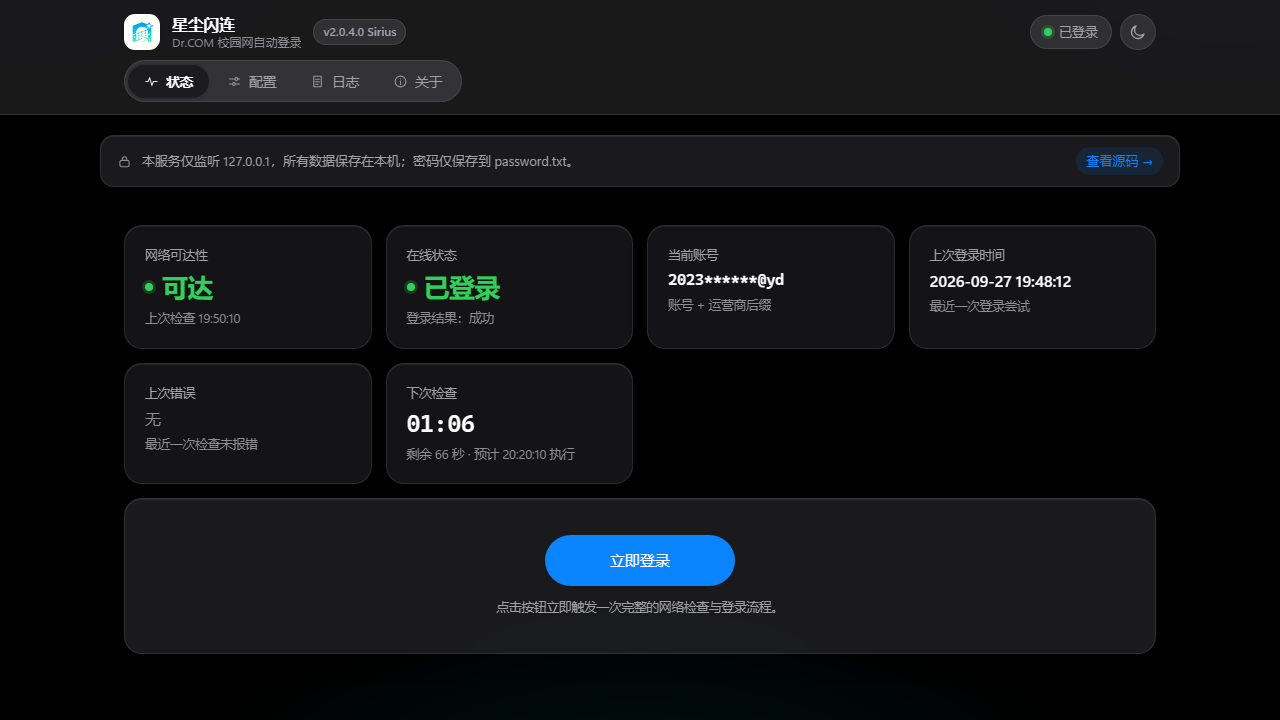
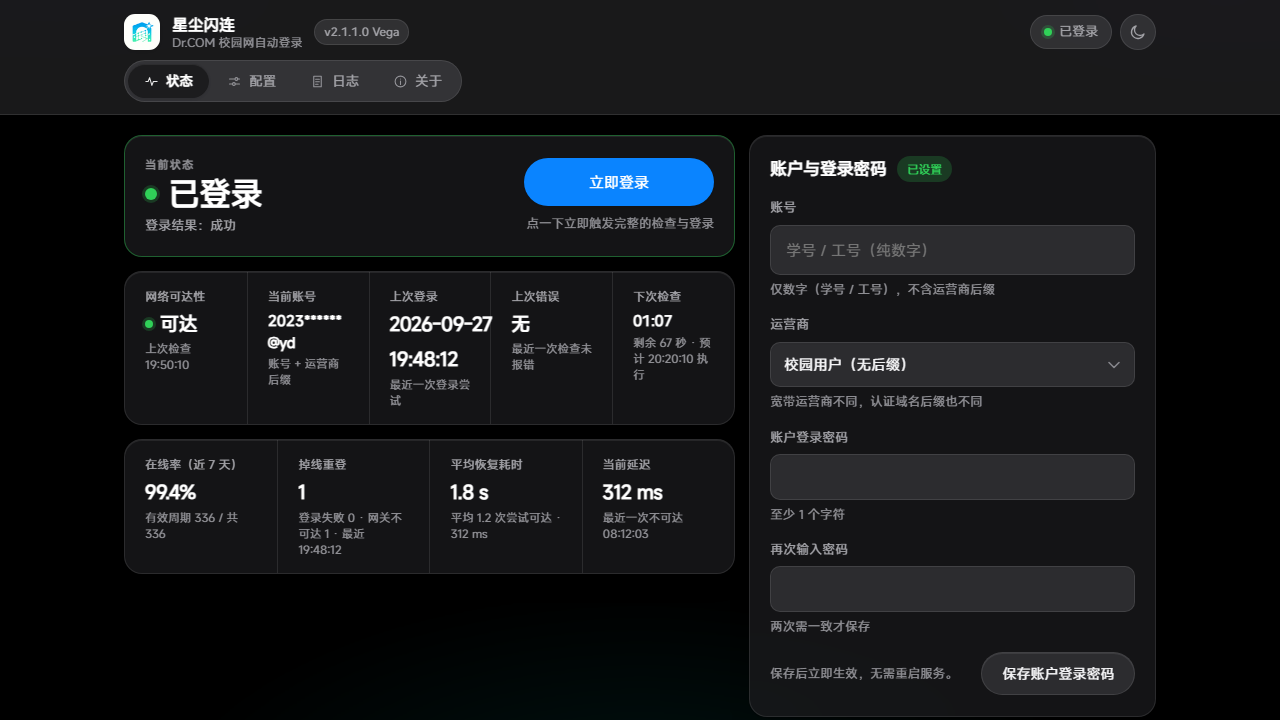
docs(v2.1.2.0): 重拍 README 亮/暗两张截图（新 UI）；截图规范改 worktree 感知；统计条日期不再折三行
1) README 的 docs/screenshot-webui{,-dark}.png 换成新 UI 的实拍：假数据渲染、账号打码成
   2023******@yd、1280x720，符合 AGENTS.md §6 的截图规范（图里没有任何真机账号 / 密码 /
   私有网关地址，版本徽章为当前 version.py 的 2.1.1.0）。

2) 截图工具 _ui_redesign/preview.py（仓库外，本地开发工具）修三处，改动与用法同步进
   AGENTS.md §6：
   - 新增第二个参数「要预览的检出目录」。本仓库是多 worktree 开发（主检出 + 各版本线），
     工具原先写死主检出 —— 拍 2.x 的截图会拍到主检出（3.0 线）的页面，这次就是这么踩的。
   - 主题改成按主题名打补丁（?theme=light|dark|baka）：原来那句
     replace("var theme = 'light';") 在 v2.1.2 把默认主题改成 baka 之后**静默失配**，
     截出来还是默认主题（不报错，只能靠肉眼看出来）。
   - 补一份 /api/metrics 假数据：状态页现在常显 4 项诊断指标，不补这份就全是
     「- / 等待统计 / 不可达」，README 首图会像坏了。

3) 顺手修掉重拍时暴露的一处排版：5 格统计条里的「上次登录」把 ISO 时间按 `-` 断成三行
   （2026- / 09-27 / 19:48:12）——现在日期与时间两段各自 nowrap（.nb），最多折两行。

断言 368 项全绿（新增 1 条：日期两段 nowrap）；_smoke_http 27/27。

diff --git a/web_api.py b/web_api.py
@@ -2023,11 +2023,15 @@ a:hover { color: var(--accent-hover); }
 .stat-cell:first-child { border-left: none; }
 .stat-label { font-size: 12px; color: var(--text-2); }
 .stat-value {
-  display: flex; align-items: center; gap: 7px; margin-top: 5px;
+  display: flex; align-items: center; flex-wrap: wrap; gap: 7px; margin-top: 5px;
   font-size: 19px; font-weight: 600; letter-spacing: -0.01em; color: var(--text-strong);
   word-break: break-word;
 }
 .stat-value.mono { font-size: 14.5px; }
+/* 窄格里的日期不再折成三行（四轮）：ISO 串的 `-` 也是断行点，5 格统计条一格只有约 60px
+   内容宽，浏览器会把「2026-09-27 19:48:12」折成 2026- / 09-27 / 19:48:12。
+   值里的「日期」「时间」两段各自包成 .nb（nowrap），配合上面的 flex-wrap 最多折两行。 */
+.nb { white-space: nowrap; }
 .stat-sub { margin-top: 3px; font-size: 11.5px; color: var(--text-3); line-height: 1.4; }
 /* 「上次错误」有值 → 整格浅橙底 + 左侧色条（原来靠一张卡变边框，现在卡没了） */
 .stat-cell.stat-alert { background: var(--warn-fill); box-shadow: inset 3px 0 0 var(--warn); }
@@ -3236,6 +3240,17 @@ details.diag > summary:active .diag-caret { transform: scale(0.9); }
     return '<code class="path">' + html + '</code>';
   }
 
+  /* 窄格子里的日期值：把「日期」「时间」两段各自包成 .nb（nowrap，见 CSS），
+     要折就折成两行，不再从 `-` 中间断开成三行。 */
+  function isoValueHtml(iso) {
+    var parts = fmtIso(iso).split(' ');
+    var html = '';
+    for (var i = 0; i < parts.length; i++) {
+      html += (i ? ' ' : '') + '<span class="nb">' + esc(parts[i]) + '</span>';
+    }
+    return html;
+  }
+
   function fmtIso(iso) {
     if (!iso) return '-';
     return String(iso).replace('T', ' ');
@@ -3443,7 +3458,7 @@ details.diag > summary:active .diag-caret { transform: scale(0.9); }
     text($('kpi-account-sub'), s.current_account ? '账号 + 运营商后缀' : '请到「配置」页填写账号');
 
     /* —— 上次登录时间 —— */
-    text($('kpi-lastlogin'), s.last_login_at ? fmtIso(s.last_login_at) : '从未');
+    $('kpi-lastlogin').innerHTML = s.last_login_at ? isoValueHtml(s.last_login_at) : '从未';
     $('kpi-lastlogin').className = 'stat-value' + (s.last_login_at ? '' : ' tone-muted');
     text($('kpi-lastlogin-sub'), s.last_login_at ? '最近一次登录尝试' : '尚无登录记录');
 

diff --git a/AGENTS.md b/AGENTS.md
@@ -72,16 +72,20 @@ README 的截图必须由**假数据渲染**，账号一律打码。工具在仓
 
 ```powershell
 cd d:\Student_Workstation\Using_Workstation
-$srv  = Start-Process -FilePath 'python' -ArgumentList '_ui_redesign\preview.py','18899' -PassThru -WindowStyle Hidden
+# 第二个参数 = 要预览的检出目录。本仓库是多 worktree 开发（主检出 + 各版本线的 worktree），
+# 拍哪条线就指哪个 worktree，截图也要落到那个 worktree 的 docs\（否则拍出来的是另一条线的页面）。
+$repo = 'd:\Student_Workstation\Using_Workstation\_wt_2x'
+$srv  = Start-Process -FilePath 'python' -ArgumentList '_ui_redesign\preview.py','18899',$repo -PassThru -WindowStyle Hidden
 Start-Sleep -Seconds 3
 $edge = 'C:\Program Files (x86)\Microsoft\Edge\Application\msedge.exe'
-$docs = 'd:\Student_Workstation\Using_Workstation\DrcomAutoLogin-Windows\docs'
-& $edge --headless --disable-gpu --no-sandbox --hide-scrollbars --window-size=1280,720 --virtual-time-budget=4000 --screenshot=$docs\screenshot-webui.png      'http://127.0.0.1:18899/'
+$docs = "$repo\docs"
+& $edge --headless --disable-gpu --no-sandbox --hide-scrollbars --window-size=1280,720 --virtual-time-budget=4000 --screenshot=$docs\screenshot-webui.png      'http://127.0.0.1:18899/?theme=light'
 & $edge --headless --disable-gpu --no-sandbox --hide-scrollbars --window-size=1280,720 --virtual-time-budget=4000 --screenshot=$docs\screenshot-webui-dark.png 'http://127.0.0.1:18899/?theme=dark'
 Stop-Process -Id $srv.Id -Force
 ```
 
-- `preview.py` 里的假数据**必须**保持脱敏（账号形如 `2023******@yd`）；它同时是 `?theme=dark` / `?tab=config|log|about` / `?probe=1` 等预览变体的入口。
+- `preview.py` 里的假数据**必须**保持脱敏（账号形如 `2023******@yd`）；它同时是 `?theme=light|dark|baka` / `?tab=config|log|about` / `?probe=1` 等预览变体的入口。
+- **主题用 `?theme=` 显式指定**：v2.1.2 起默认主题是 `baka`（星尘风），不写就拍成默认主题，和 README 上「亮 / 暗」两句配文对不上。
 - 拍完**肉眼看一眼**：账号打码了、版本徽章是当前版本、没有真实网关 / 账号 / 学号。
 - 只提交 `docs\screenshot-webui*.png` 这两张（亮 / 暗）。
 
